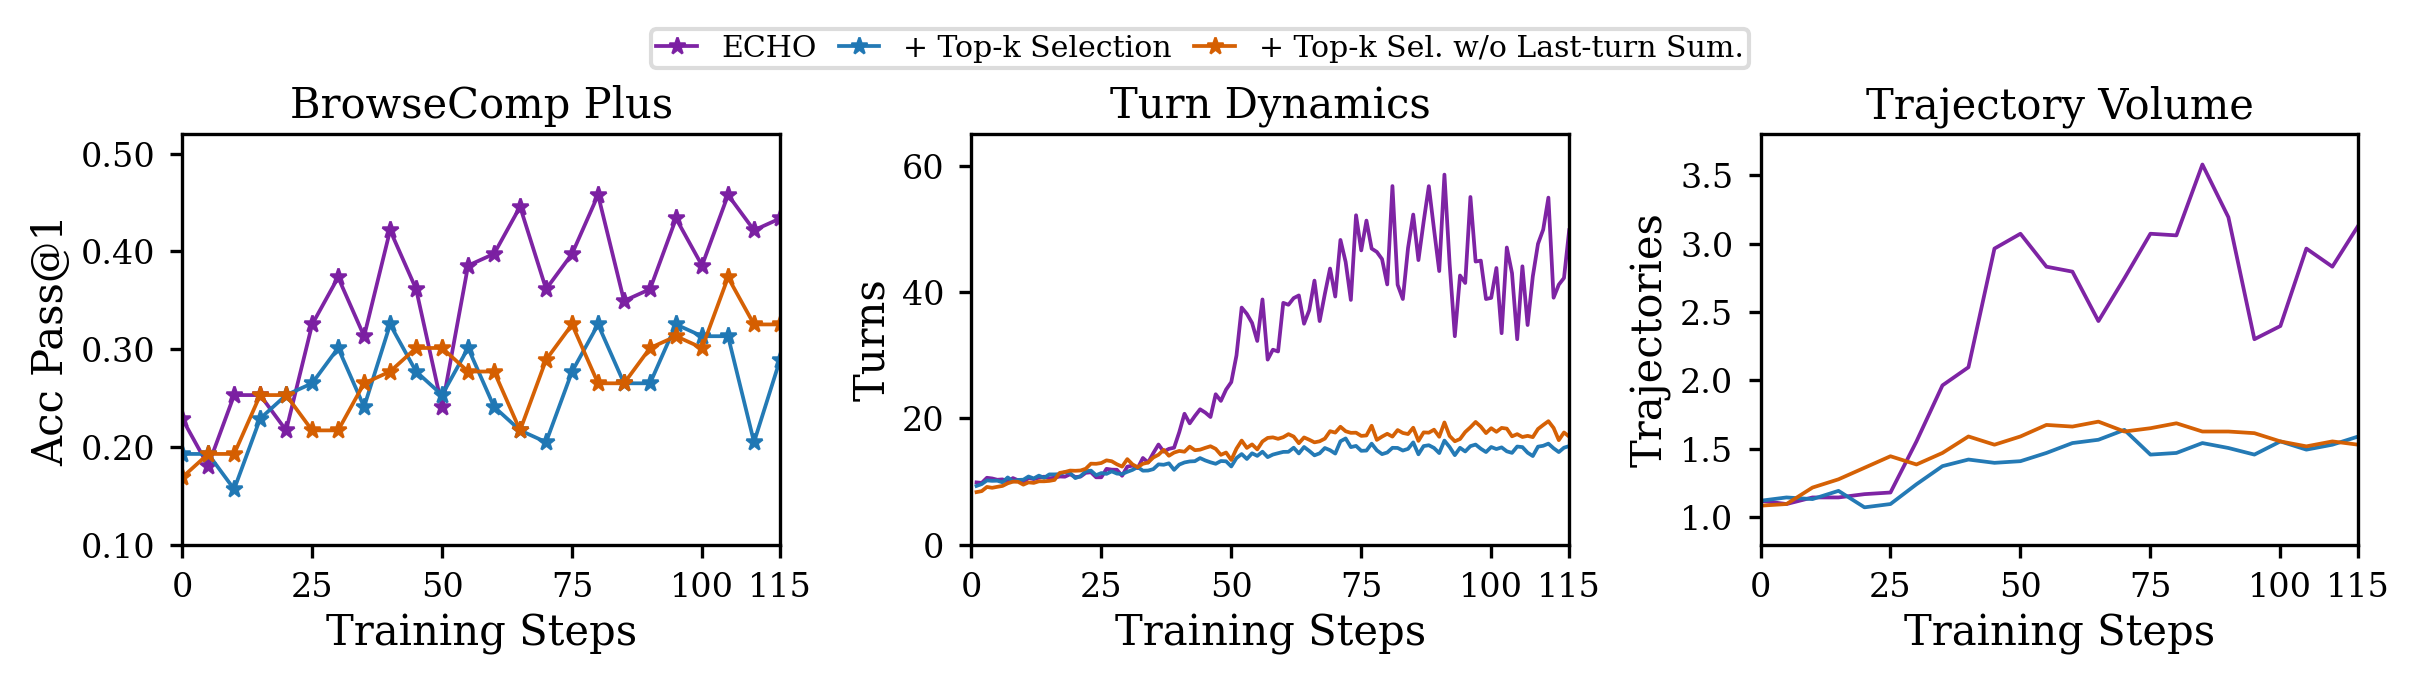
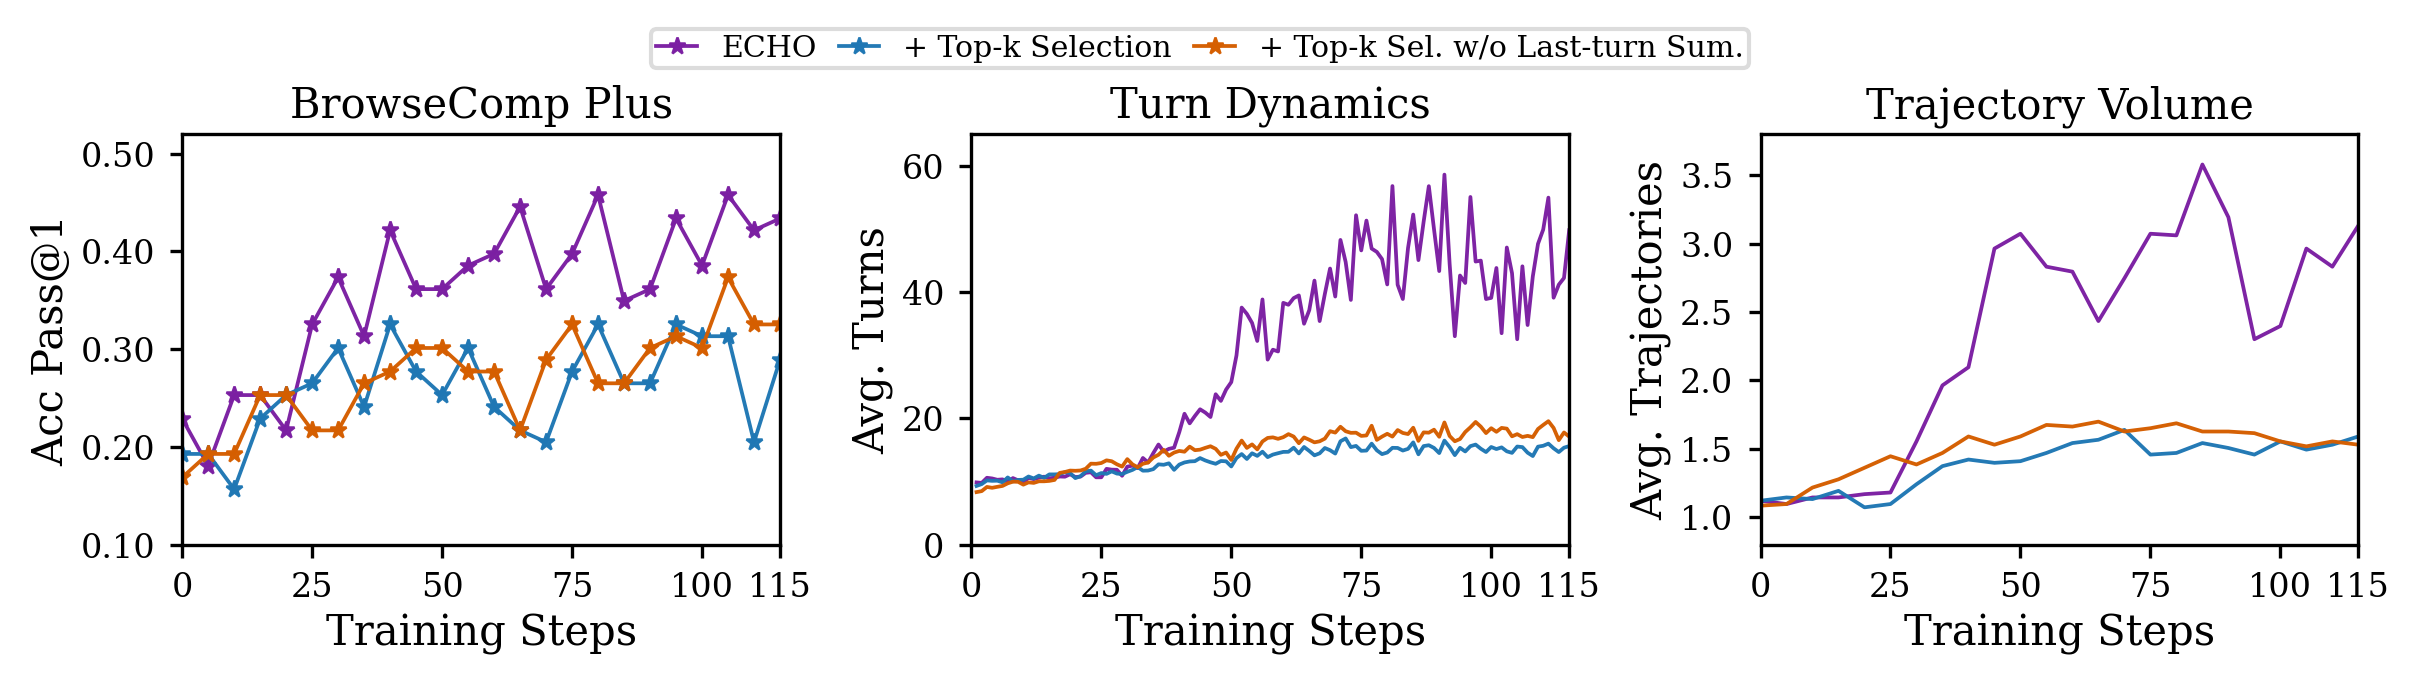
update readme
[skip ci]

diff --git a/README.md b/README.md
@@ -15,28 +15,29 @@ agentic reinforcement learning, built on top of [verl](https://github.com/volcen
 Long-horizon language agents must act under bounded contexts while learning from
 sparse outcome rewards. Common context-management methods make long rollouts
 feasible by truncating history or folding multiple turns into rolling summaries,
-but these transformations lose source-level addressability: once historical
-observations are collapsed, outcome-based RL has no explicit route for assigning
-delayed credit back to the original evidence turns that later decisions
-conditioned on.
+but these transformations can weaken or remove source-level addressability. In
+particular, once historical observations are collapsed into a single state,
+outcome-based RL has no explicit route for assigning delayed credit back to the
+original evidence turns that later decisions conditioned on.
 
 ECHO addresses this with two coupled ideas:
 
 - ✂ **Prune to Act** — each completed turn is compressed into a *source-indexed*
-  memory; distant history is kept as a non-collapsing memory set, and a bounded
-  policy context is reconstructed by selecting relevant memories together with
-  recent interactions.
-- 🔍 **Trace to Learn** — the selected source indices are reused as provenance
-  routes for delayed credit assignment, so learning rewards the final segment and
-  the useful historical memory tokens instead of all generated tokens.
+  memory and retained in a persistent, non-collapsing archive. A bounded policy
+  context is reconstructed by selecting relevant memories together with recent
+  interactions.
+- 🔍 **Trace to Learn** — the final reconstruction's selected source indices are
+  reused as provenance routes, so positive outcome credit is routed to the final
+  segment and the historical tokens that the policy actually reused.
 
 <div align="center">
 <img src="assets/main_experiment.png" width="100%" alt="Main results on BrowseComp-Plus">
 </div>
 
 > **Figure 1 — Training dynamics on BrowseComp-Plus** (ECHO = purple, GRPO =
-> orange, SUPO = green), under an identical backbone, verifier, rollout budget,
-> and sampling configuration. **Left:** held-out pass@1 accuracy over training.
+> orange, SUPO = green), under the same backbone, tool environment, verifier,
+> rollout group size, and 32k working-context budget. **Left:** held-out pass@1
+> accuracy over training.
 > **Middle:** average tool-use turns per rollout. **Right:** trajectory volume
 > (total generated tokens) per rollout. ECHO traces the upper-left frontier —
 > rising accuracy *without* the turn and volume growth seen for SUPO.
@@ -45,35 +46,40 @@ On BrowseComp-Plus, ECHO reaches **43.4%** held-out accuracy, outperforming GRPO
 (28.9%) and the rolling-summary baseline SUPO (36.1%), while using fewer turns and
 lower trajectory volume than SUPO. The trained policy also improves zero-shot
 generalization across multi-objective QA, code generation, and deep
-information-seeking benchmarks on both dense (Qwen3-32B) and MoE (Qwen3-30B-A3B)
-backbones.
+information-seeking benchmarks on both dense (Qwen3-32B-Instruct) and MoE
+(Qwen3-30B-A3B-Instruct) backbones.
 
 ---
 
 ## 🧠 Method
 
-ECHO has two coupled stages: it **prunes** distant history into a selectable,
+ECHO has two coupled stages: it **prunes** distant history into selectable,
 source-indexed memory so the policy can keep acting under a bounded context, and
-it **traces** the same source indices back through the update so credit flows only
-to the turns the policy actually reused.
+it **traces** the final reconstruction's source indices through the update so
+positive credit flows only along the evidence path the policy actually reused.
 
 ### 💡 Motivation
 
-<div align="center">
-<img src="assets/echo_motivation.png" width="98%" alt="ECHO: source-indexed reconstruction vs collapsed summary">
-</div>
+| History transformation | Managed state | Reconstruction form | Source trace | Examples |
+| --- | --- | --- | --- | --- |
+| Append-only | $`H_j^{\mathrm{pre}}`$ | $`H_j^{\mathrm{pre}} \oplus H_{j,t}^{\mathrm{loc}}`$ | Explicit | Vanilla prompting |
+| Deletion / pruning | $`C_j \subseteq H_j^{\mathrm{pre}}`$ | $`\mathrm{Render}(C_j, H_{j,t}^{\mathrm{loc}}; B)`$ | Partial / lost | Sliding window<sup>R</sup>, Agent-Omit<sup>A</sup> |
+| Edited memory state | $`B_j`$ | $`\mathrm{Render}(B_j, H_{j,t}^{\mathrm{loc}}; B)`$ | Action-traced | MemAct<sup>A</sup>, Memory-R1<sup>A</sup> |
+| Collapsed folding | $`z_j=C(z_{j-1},\sigma_{j-1})`$ | $`\mathrm{Render}(z_j) \oplus H_{j,t}^{\mathrm{loc}}`$ | Collapsed | SUPO<sup>R</sup>, FoldGRPO<sup>A</sup> |
+| **Selective turn memory** | $`\mathcal{E}_j=\{e_i\}_{i \le K_{j-1}}`$ | $`\mathrm{Render}(\mathcal{E}_j[\hat I_j]) \oplus H_{j,t}^{\mathrm{loc}}`$ | **Source-indexed** | **ECHO<sup>R</sup>** |
 
-> Collapsing history into a rolling summary makes bounded-context acting possible
-> but removes direct source-level addressability — once turns are folded into one
-> summary, outcome-based RL has no route to credit the original evidence turns.
-> ECHO instead compresses **each completed turn independently** into a compact,
-> source-indexed memory clue, and keeps the distant history as a *non-collapsing*
-> set: every memory stays individually linked to its source turn even after the
-> raw observation leaves the active context. At a compression boundary the policy
-> autoregressively **selects** which historical memories to reuse, and reconstructs
-> a bounded context from the selected memories plus the most recent turns. The
-> selected source indices are kept as an explicit provenance set — the trace later
-> reused for learning.
+> Methods are grouped by how they transform completed history. Superscripts
+> describe the separate reconstruction trigger: **R** is rule-triggered and
+> **A** is action-triggered. “Source trace” asks whether reconstructed context
+> remains addressable at the level of the original environment turns.
+>
+> After each completed tool-use turn, the same policy writes a compact finding and
+> appends its source index, compact action, and finding to a persistent,
+> non-collapsing archive. At a reconstruction boundary, the policy selects useful
+> records and combines them with automatically retained recent turns. Selection
+> changes only the bounded active view; unselected records remain available at
+> later boundaries. The selected source indices are used both to reconstruct
+> context and to route delayed credit during learning.
 
 <div align="center">
 <img src="assets/motivation_training_diagnostics.png" width="98%" alt="Training diagnostics: summarization induces turn proliferation and volume growth">
@@ -90,18 +96,20 @@ to the turns the policy actually reused.
 <img src="assets/echo_ca.png" width="98%" alt="Provenance-guided credit assignment in ECHO">
 </div>
 
-> **Overview of ECHO.** GRPO and SUPO apply the trajectory advantage *densely* to
-> all generated tokens (in SUPO, including the rolling-summary tokens), so once the
-> outcome reward arrives they cannot tell evidence turns from redundant searches.
-> ECHO instead reuses the reconstruction trace as a credit route. It builds a
-> token-level credit mask that keeps **(i)** the final saved trajectory segment, **(ii)** the
-> action tokens of selected source turns, **(iii)** the finding tokens of selected
-> turns, and **(iv)** the memory-selection tokens; all other tokens are masked out.
-> An outcome-dependent advantage is attached only to those credit tokens, using the
-> *positive part* of the group-relative advantage: a correct rollout reinforces the
-> evidence path the policy chose to reuse, while an incorrect rollout — whose trace
-> carries no reliable signal — receives no update. (Dense all-token credit is kept
-> only as the "w/o traceable CA" ablation.)
+> **Overview of ECHO.** GRPO and SUPO apply the signed trajectory advantage
+> *densely* to all trainable response tokens (in SUPO, including rolling-summary
+> tokens), so the outcome reward does not distinguish useful evidence from
+> redundant searches. ECHO instead uses a **final-trace approximation**: source
+> turns selected into the final reconstructed context define the historical tokens
+> eligible for credit. Its token-level mask keeps **(i)** every trainable token in
+> the final saved segment, **(ii)** trainable assistant/action tokens from those
+> selected source turns, **(iii)** their memory-finding tokens, and **(iv)**
+> generated memory-selection spans. The final saved segment begins after the last
+> context reconstruction (or at rollout start if no reconstruction occurs) and
+> includes assistant reasoning and tool-call tokens through the terminal response.
+> Only a rollout with positive group-relative advantage reinforces this trace;
+> zero- or negative-advantage rollouts receive no ECHO update. Dense signed credit
+> over all response tokens is retained only as the "w/o traceable CA" ablation.
 
 ---
 
@@ -150,12 +158,23 @@ Alternatively, build the prompt parquet files from a local BrowseComp-Plus copy
 with:
 
 ```bash
-python3 examples/data_preprocess/bcp_paper_prompt.py
+python3 examples/data_preprocess/bcp_paper_prompt.py --data-dir "$DATA_DIR"
 ```
 
-This produces `train.paper.parquet` and `test.paper.parquet` under your dataset
-directory. A dense retrieval service over the BrowseComp-Plus corpus is launched
-automatically by the training scripts
+This reads `train.parquet` and `test.parquet` and writes `train.paper.parquet`
+and `test.paper.parquet` under `DATA_DIR`. Training also requires either the
+official corpus at `$DATA_DIR/corpus.parquet` or a prebuilt dense cache at
+`$DATA_DIR/browsecomp_dense_cache.pkl`. To build the cache ahead of time:
+
+```bash
+python3 examples/sglang_multiturn/build_embed_index.py \
+  --corpus_file "$DATA_DIR/corpus.parquet" \
+  --model /path/to/Qwen3-Embedding-8B \
+  --output "$DATA_DIR/browsecomp_dense_cache.pkl"
+```
+
+If the corpus exists but the cache does not, the training script builds the
+cache when it launches the dense retrieval service
 (`examples/sglang_multiturn/browsecomp_retrieval_server.py`).
 
 ---
@@ -171,10 +190,17 @@ export VENV_PATH=/path/to/your/venv               # Python virtualenv
 export MODEL_PATH=/path/to/Qwen3-32B              # policy model
 export RETRIEVER_MODEL_PATH=/path/to/Qwen3-Embedding-8B
 export DATA_DIR=/path/to/browsecomp-plus-processed  # contains *.paper.parquet
+export TRAINER_IPS=10.0.0.1,10.0.0.2,10.0.0.3,10.0.0.4
 
-# Optional services / accounts
-export WANDB_API_KEY=...   export WANDB_ENTITY=...   # if using Weights & Biases
+# Weights & Biases: configure online logging, or use WANDB_MODE=offline
+export WANDB_API_KEY=...   export WANDB_ENTITY=...
+# export WANDB_MODE=offline
 ```
+
+Launch from the first IP in `TRAINER_IPS`. The four nodes must have passwordless
+SSH connectivity and consistent access to the virtual environment, model, and
+data paths. Cluster environments may provide the node list through
+`PADDLE_TRAINERS` instead.
 
 **⚖ LLM-judge reward.** The reward function (`verl/utils/reward_score/bc_p_llm_judge.py`)
 scores answers with an OpenAI-compatible chat-completions endpoint. Point it at any
@@ -219,8 +245,8 @@ variables (see the top of each script for the full list). Key knobs:
 
 | Variable | Default | Meaning |
 | --- | --- | --- |
-| `CONTEXT_COMPRESSION_METHOD` | `echo_e2e` | Context reconstruction strategy: `echo_e2e` (learned selection), `semantic_selection` (static top-k retrieval), `truncate` (left-truncation), `summarize` (SUPO rolling summary) |
-| `ECHO_CREDIT_METHOD` | `token` | Credit routing: `token` (provenance-guided, ECHO), `traj` (trajectory-level), `none` (dense, all tokens) |
+| `CONTEXT_COMPRESSION_METHOD` | `echo_e2e` | Context reconstruction strategy: `echo_e2e` (learned selection), `semantic_selection` (static top-k retrieval), `truncate` (left-truncation), `summary` (SUPO rolling summary) |
+| `ECHO_CREDIT_METHOD` | `token` | Credit routing: `token` (provenance-guided ECHO), `traj` (coarser selected-segment credit), `none` (dense signed credit over all response tokens) |
 | `ECHO_RECENT_TURNS` | `3` | Number of most-recent turns always kept during reconstruction |
 | `WORKING_CONTEXT_LENGTH` | `32768` | Single-segment token threshold that triggers compression |
 | `MAX_SUMMARY_ROUNDS` | `5` | Max compression rounds before a rollout is marked overlong |
@@ -267,9 +293,10 @@ bash examples/sglang_multiturn/run_qwen3-32b_bcp_supo_4node.sh
 > full observations add no gain over compact findings.
 >
 > **Right — Credit assignment ablation.** ECHO's provenance-guided token credit
-> vs. dense credit (w/o traceable CA, rewards all tokens) and all-turn importance
-> weighting. Dense credit lowers accuracy and stability; all-turn weighting
-> further inflates turn counts. Traceable credit gives the best accuracy/stability.
+> vs. dense credit (w/o traceable CA, rewards all response tokens) and turn-level
+> importance sampling. Dense credit lowers accuracy and stability; turn-level IS
+> becomes unstable as turn counts and trajectory volume grow. Traceable credit
+> gives the best accuracy and stability.
 
 ### 🧩 MoE Backbone
 
@@ -277,18 +304,30 @@ bash examples/sglang_multiturn/run_qwen3-32b_bcp_supo_4node.sh
 <img src="assets/moe_experiment.png" width="60%" alt="MoE experiment">
 </div>
 
-> **Transfer to the sparse MoE backbone (Qwen3-30B-A3B).** Held-out accuracy over
-> training for ECHO vs. GRPO, showing the method's gains are not specific to the
-> dense backbone.
+> **Transfer to the sparse MoE backbone (Qwen3-30B-A3B-Instruct).** ECHO, GRPO,
+> and SUPO use the same controlled setup. GRPO reaches 22.9% held-out accuracy;
+> SUPO's turn count and trajectory volume grow rapidly while accuracy falls to
+> 13.3% by step 50; ECHO remains stable and finishes around 35.0%. The same
+> ranking on a sparse backbone shows that ECHO's gains are not specific to the
+> dense model.
+
+### ⏱ Training Efficiency
+
+ECHO incurs early overhead because the policy writes a finding after each
+completed tool turn and generates selection actions at reconstruction boundaries.
+Later in training, however, its bounded selected view limits turn proliferation;
+step, generation, and tool-call time remain lower than SUPO while accuracy is
+higher.
 
 ### 🌐 Zero-shot Generalization
 
-Without any additional tuning, the BrowseComp-Plus–trained policy is evaluated
-across three out-of-domain families: Multi-Objective QA (2–16 objectives), Code
-Generation (CodeGym, LoCoBench-Agent), and Deep Information Seeking (GAIA, HLE,
-Frames). **Bold** = best, _underline_ = second-best. CA = credit assignment.
-Column abbreviations: **MO-Avg** = Multi-Objective QA average; **LoCo** =
-LoCoBench-Agent.
+Without benchmark-specific further training, the BrowseComp-Plus-trained policy
+is evaluated in the same agent-loop framework across three out-of-domain
+families: Multi-Objective QA (2–16 objectives), Code Generation (CodeGym,
+LoCoBench-Agent), and Deep Information Seeking (GAIA, HLE, Frames). These results
+measure zero-shot agentic transfer rather than bare-model generation. **Bold** =
+best, _underline_ = second-best. CA = credit assignment. Column abbreviations:
+**MO-Avg** = Multi-Objective QA average; **LoCo** = LoCoBench-Agent.
 
 **Backbone: Qwen3-32B-Instruct**
 
@@ -300,7 +339,7 @@ LoCoBench-Agent.
 | ECHO w/ Top-K retrieval | **47.7** | 42.0 | _39.2_ | 27.8 | _39.2_ | _40.7_ | 69.3 | **29.1** | _10.6_ | _37.3_ | _38.2_ |
 | ECHO w/ Top-K retrieval & w/o turn summary | 40.9 | 44.3 | 35.8 | _35.5_ | 39.1 | 40.3 | 69.5 | 23.3 | 10.0 | 31.3 | 36.8 |
 | ECHO w/o traceable CA | _45.5_ | 42.0 | _39.2_ | 22.7 | 37.4 | 38.1 | 68.2 | _25.2_ | 8.8 | 30.8 | 35.6 |
-| ECHO w/ all-turn CA | _45.5_ | **47.7** | 35.2 | 27.0 | 38.8 | 34.6 | _70.1_ | 23.3 | 9.4 | 32.2 | 36.1 |
+| ECHO w/o Traceable CA & Turn-level IS | _45.5_ | **47.7** | 35.2 | 27.0 | 38.8 | 34.6 | _70.1_ | 23.3 | 9.4 | 32.2 | 36.1 |
 
 **Backbone: Qwen3-30B-A3B-Instruct**
 
@@ -309,6 +348,11 @@ LoCoBench-Agent.
 | GRPO | _27.3_ | 26.1 | _27.3_ | 16.2 | 24.2 | 20.3 | _65.7_ | _23.3_ | 7.8 | _19.1_ | 25.9 |
 | SUPO | 25.0 | _30.7_ | _27.3_ | _18.2_ | _25.3_ | _27.3_ | 65.1 | _23.3_ | _8.0_ | 17.0 | _26.9_ |
 | **ECHO** | **34.1** | **36.4** | **30.1** | **18.8** | **29.9** | **29.7** | **66.8** | **24.3** | **9.2** | **25.0** | **30.5** |
+
+ECHO achieves the best dense-backbone average at **40.2%**, compared with 33.6%
+for GRPO and 34.8% for SUPO. On the MoE backbone, it reaches **30.5%**, compared
+with 26.9% for SUPO. Replacing learned selection with Top-K retrieval lowers the
+dense average to 38.2%, while removing traceable credit lowers it to 35.6%.
 
 ---
 
@@ -322,9 +366,12 @@ Reinforcement Learning for LLMs). We thank the verl team and community.
 ## 📝 Citation
 
 ```bibtex
-@article{echo,
+@article{xie2026echo,
   title  = {ECHO: Prune to Act, Trace to Learn with Selective Turn Memory in Agentic RL},
-  author = {Xie, Zijun and Zheng, Binbin and others},
+  author = {Xie, Zijun and Zheng, Binbin and Gong, Enlei and Liu, Jihua and
+            You, Yuyang and Liu, Lingfeng and Tang, Jiayao and Zhao, Guanqun and
+            Hu, Aoqi and Chen, Zeyu},
+  journal = {arXiv preprint arXiv:2606.31650},
   year   = {2026}
 }
 ```
